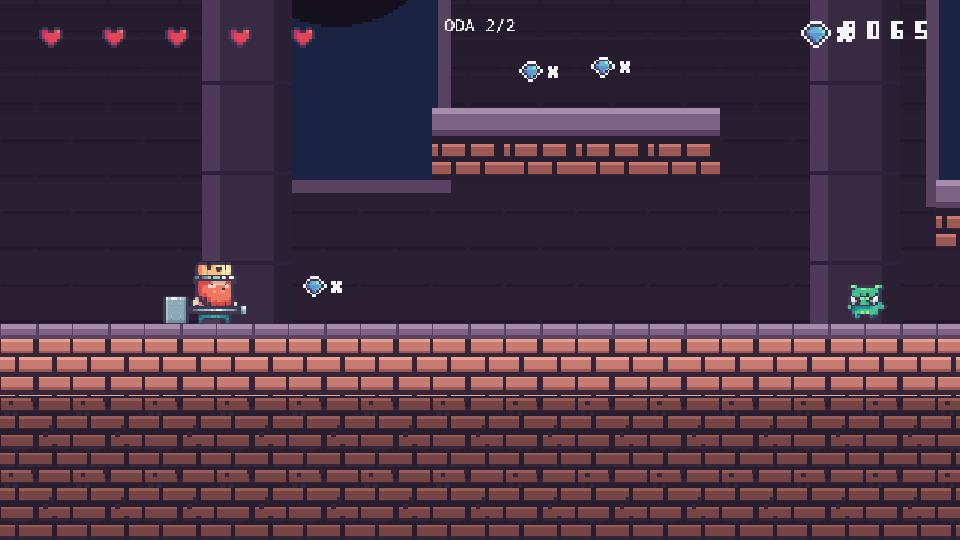
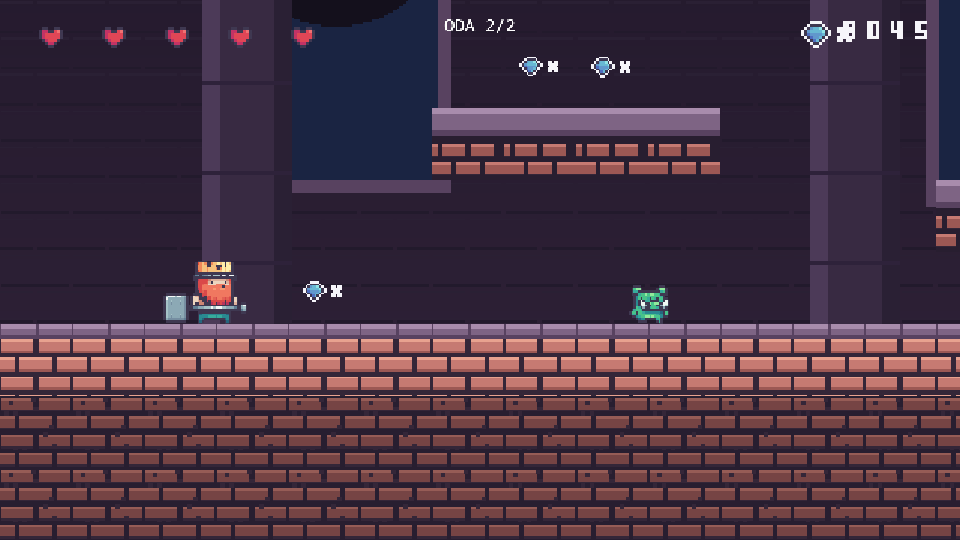
rect rengi color() ile duzeltildi, menu overlay, ziplama testi

diff --git a/src/main.js b/src/main.js
@@ -195,8 +195,14 @@ const startGame = () => {
 
 /* --------------------------------- menu -------------------------------- */
 scene("menu", () => {
-  add([sprite("bg", { width: 1280, height: 360 }), pos(0, -40), z(-100)]);
-  add([rect(width(), height(), rgb(14, 10, 22)), pos(0, 0), opacity(0.55), z(-50)]);
+  add([sprite("bg", { width: 1280, height: 360 }), pos(0, 0), z(-100)]);
+  add([
+    rect(width(), height()),
+    pos(0, 0),
+    color(14, 10, 22),
+    opacity(0.55),
+    z(-50),
+  ]);
   add([text("KRAL VE DOMUZLAR", { size: 36 }), pos(width() / 2, 96), anchor("center"), z(10)]);
   add([text("Kale domuzlardan temizlenmeli.", { size: 13 }), pos(width() / 2, 142), anchor("center"), z(10)]);
   add([text("A / D veya OK  =  yuru", { size: 12 }), pos(width() / 2, 186), anchor("center"), z(10)]);
@@ -444,7 +450,8 @@ scene("game", () => {
       const a = (Math.PI * 2 * i) / 10;
       add([
         pos(p.clone()),
-        rect(3, 3, rgb(col[0], col[1], col[2])),
+        rect(3, 3),
+        color(col[0], col[1], col[2]),
         move(vec2(Math.cos(a), Math.sin(a)), 110 + (i % 3) * 40),
         opacity(1),
         lifespan(0.35, { fade: 0.2 }),
@@ -457,7 +464,8 @@ scene("game", () => {
     for (let i = 0; i < 6; i++) {
       add([
         pos(p.clone()),
-        rect(3, 3, rgb(150, 120, 160)),
+        rect(3, 3),
+        color(150, 120, 160),
         move(vec2(i % 2 ? 1 : -1, -0.4), 50 + i * 10),
         opacity(1),
         lifespan(0.25, { fade: 0.15 }),
@@ -656,7 +664,7 @@ scene("game", () => {
 
 /* ------------------------------ game over ------------------------------ */
 scene("gameover", (score = 0) => {
-  add([rect(width(), height(), rgb(14, 10, 22)), pos(0, 0)]);
+  add([rect(width(), height()), pos(0, 0), color(14, 10, 22)]);
   add([text("KRAL DUSTU", { size: 34 }), pos(width() / 2, 110), anchor("center")]);
   add([text("Toplanan altin: " + score, { size: 16 }), pos(width() / 2, 164), anchor("center")]);
   add([text("SPACE = tekrar dene", { size: 14 }), pos(width() / 2, 232), anchor("center")]);
@@ -665,7 +673,7 @@ scene("gameover", (score = 0) => {
 
 /* --------------------------------- kazandi ------------------------------ */
 scene("win", (score = 0) => {
-  add([rect(width(), height(), rgb(14, 10, 22)), pos(0, 0)]);
+  add([rect(width(), height()), pos(0, 0), color(14, 10, 22)]);
   add([text("KALE TEMIZLENDI!", { size: 30 }), pos(width() / 2, 104), anchor("center")]);
   add([text("Toplanan altin: " + score, { size: 16 }), pos(width() / 2, 156), anchor("center")]);
   add([text("SPACE = bastan oyna", { size: 14 }), pos(width() / 2, 226), anchor("center")]);
